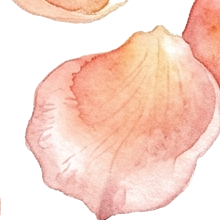
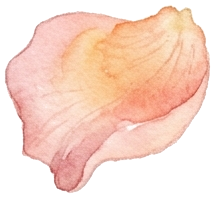
fix: eliminate horizontal scroll and enhance visibility of background mini roses and clean petals

diff --git a/src/app/app.css b/src/app/app.css
@@ -2,18 +2,23 @@
   display: block;
   min-height: 100vh;
   position: relative;
+  overflow-x: clip;
+  max-width: 100%;
   background:
     radial-gradient(circle at 10% 15%, rgba(245, 205, 170, 0.35) 0%, transparent 45%),
     radial-gradient(circle at 90% 80%, rgba(240, 195, 150, 0.3) 0%, transparent 50%),
     radial-gradient(circle at 85% 15%, #fae2cc 0%, #fdf5ec 48%, #f7ebd9 100%);
 }
 
-/* Ambient Romantic Floating Petals Layer */
+/* Ambient Romantic Floating Petals & Mini Roses Layer */
 .romantic-petals-layer {
   position: fixed;
   inset: 0;
+  width: 100vw;
+  max-width: 100%;
+  height: 100vh;
   pointer-events: none;
-  z-index: 5;
+  z-index: 4;
   overflow: hidden;
   opacity: 0;
   transition: opacity 1.2s ease 0.4s;
@@ -23,89 +28,143 @@
   opacity: 1;
 }
 
+/* Mini Rose Blooms in Background */
+.bg-bloom {
+  position: absolute;
+  background-size: contain;
+  background-repeat: no-repeat;
+  background-position: center;
+  pointer-events: none;
+  filter: drop-shadow(0 6px 14px rgba(185, 135, 80, 0.22));
+  will-change: transform;
+  background-image: url('/images/mini_rose_trans.png');
+}
+
+.bloom-1 {
+  top: 18%;
+  left: clamp(8px, 2.8vw, 36px);
+  width: clamp(48px, 9vw, 75px);
+  height: clamp(48px, 9vw, 75px);
+  opacity: 0.95;
+  animation: floatBloom 11s ease-in-out infinite alternate;
+}
+
+.bloom-2 {
+  top: 50%;
+  right: clamp(8px, 2.8vw, 36px);
+  width: clamp(44px, 8.5vw, 70px);
+  height: clamp(44px, 8.5vw, 70px);
+  opacity: 0.92;
+  transform: scaleX(-1);
+  animation: floatBloomReverse 13s ease-in-out infinite alternate 1.5s;
+}
+
+.bloom-3 {
+  top: 82%;
+  left: clamp(10px, 3.2vw, 40px);
+  width: clamp(46px, 8.8vw, 72px);
+  height: clamp(46px, 8.8vw, 72px);
+  opacity: 0.94;
+  animation: floatBloom 14s ease-in-out infinite alternate 2.5s;
+}
+
+/* Individual Floating Rose Petals */
 .petal {
   position: absolute;
   background-size: contain;
   background-repeat: no-repeat;
   background-position: center;
   pointer-events: none;
-  filter: drop-shadow(0 4px 10px rgba(185, 135, 80, 0.16));
-  will-change: transform, opacity;
+  filter: drop-shadow(0 4px 10px rgba(185, 135, 80, 0.2));
+  will-change: transform;
 }
 
 .petal-1 {
-  top: 14%;
-  left: clamp(1%, 3vw, 6%);
-  width: clamp(28px, 5vw, 42px);
-  height: clamp(28px, 5vw, 42px);
+  top: 8%;
+  right: clamp(12px, 3.5vw, 45px);
+  width: clamp(34px, 6vw, 50px);
+  height: clamp(34px, 6vw, 50px);
+  opacity: 0.95;
   background-image: url('/images/petal_1_trans.png');
-  animation: floatPetal 11s ease-in-out infinite alternate;
+  animation: floatPetal 10s ease-in-out infinite alternate;
 }
 
 .petal-2 {
-  top: 36%;
-  right: clamp(1%, 4vw, 7%);
-  width: clamp(34px, 5.5vw, 48px);
-  height: clamp(34px, 5.5vw, 48px);
+  top: 34%;
+  left: clamp(12px, 3.2vw, 40px);
+  width: clamp(32px, 5.5vw, 46px);
+  height: clamp(32px, 5.5vw, 46px);
+  opacity: 0.92;
   background-image: url('/images/petal_2_trans.png');
-  animation: floatPetalReverse 13s ease-in-out infinite alternate 1.5s;
+  animation: floatPetalReverse 12s ease-in-out infinite alternate 1s;
 }
 
 .petal-3 {
-  top: 58%;
-  left: clamp(1%, 2.5vw, 5%);
-  width: clamp(26px, 4.5vw, 38px);
-  height: clamp(26px, 4.5vw, 38px);
+  top: 66%;
+  right: clamp(14px, 3.5vw, 45px);
+  width: clamp(30px, 5vw, 44px);
+  height: clamp(30px, 5vw, 44px);
+  opacity: 0.94;
   background-image: url('/images/petal_3_trans.png');
-  animation: floatPetal 15s ease-in-out infinite alternate 2s;
+  animation: floatPetal 13s ease-in-out infinite alternate 2s;
 }
 
 .petal-4 {
-  top: 76%;
-  right: clamp(2%, 3.5vw, 6%);
-  width: clamp(30px, 4.8vw, 44px);
-  height: clamp(30px, 4.8vw, 44px);
-  background-image: url('/images/petal_1_trans.png');
-  transform: rotate(45deg);
-  animation: floatPetalReverse 12s ease-in-out infinite alternate 3s;
+  top: 92%;
+  right: clamp(15px, 4vw, 48px);
+  width: clamp(32px, 5.5vw, 46px);
+  height: clamp(32px, 5.5vw, 46px);
+  opacity: 0.92;
+  background-image: url('/images/petal_4_trans.png');
+  animation: floatPetalReverse 11s ease-in-out infinite alternate 3s;
 }
 
-.petal-5 {
-  top: 90%;
-  left: clamp(2%, 4vw, 8%);
-  width: clamp(32px, 5.2vw, 46px);
-  height: clamp(32px, 5.2vw, 46px);
-  background-image: url('/images/petal_2_trans.png');
-  animation: floatPetal 14s ease-in-out infinite alternate 4s;
+/* Vertical-only floating animations with rotation (Strictly zero horizontal overflow) */
+@keyframes floatBloom {
+  0% {
+    transform: translateY(0) rotate(0deg) scale(1);
+  }
+  50% {
+    transform: translateY(-16px) rotate(8deg) scale(1.04);
+  }
+  100% {
+    transform: translateY(-30px) rotate(-6deg) scale(0.98);
+  }
+}
+
+@keyframes floatBloomReverse {
+  0% {
+    transform: scaleX(-1) translateY(0) rotate(0deg) scale(1);
+  }
+  50% {
+    transform: scaleX(-1) translateY(18px) rotate(-8deg) scale(1.04);
+  }
+  100% {
+    transform: scaleX(-1) translateY(32px) rotate(6deg) scale(0.98);
+  }
 }
 
 @keyframes floatPetal {
   0% {
     transform: translateY(0) rotate(0deg) scale(1);
-    opacity: 0.75;
   }
   50% {
-    transform: translateY(-20px) translateX(12px) rotate(16deg) scale(1.05);
-    opacity: 0.95;
+    transform: translateY(-18px) rotate(14deg) scale(1.06);
   }
   100% {
-    transform: translateY(-38px) translateX(-8px) rotate(-10deg) scale(0.98);
-    opacity: 0.7;
+    transform: translateY(-34px) rotate(-10deg) scale(0.97);
   }
 }
 
 @keyframes floatPetalReverse {
   0% {
     transform: translateY(0) rotate(0deg) scale(1);
-    opacity: 0.7;
   }
   50% {
-    transform: translateY(22px) translateX(-14px) rotate(-18deg) scale(1.06);
-    opacity: 0.92;
+    transform: translateY(18px) rotate(-14deg) scale(1.06);
   }
   100% {
-    transform: translateY(40px) translateX(10px) rotate(12deg) scale(0.95);
-    opacity: 0.75;
+    transform: translateY(34px) rotate(10deg) scale(0.97);
   }
 }
 
@@ -141,7 +200,9 @@
   position: relative;
   z-index: 10;
   max-width: 760px;
+  width: 100%;
   margin: 0 auto;
+  overflow-x: clip;
   opacity: 0;
   visibility: hidden;
   transition:

diff --git a/src/app/app.html b/src/app/app.html
@@ -1,13 +1,15 @@
 <!-- Intro Door (full-screen overlay — hides when opened) -->
 <app-intro-door (doorOpened)="onDoorOpened()" />
 
-<!-- Floating Romantic Rose Petals Ambient Layer -->
+<!-- Floating Romantic Rose & Petals Ambient Layer -->
 <div class="romantic-petals-layer" aria-hidden="true" [class.visible]="doorOpen()">
+  <span class="bg-bloom bloom-1"></span>
   <span class="petal petal-1"></span>
+  <span class="bg-bloom bloom-2"></span>
   <span class="petal petal-2"></span>
   <span class="petal petal-3"></span>
+  <span class="bg-bloom bloom-3"></span>
   <span class="petal petal-4"></span>
-  <span class="petal petal-5"></span>
 </div>
 
 <!-- Main Wedding Content (visible after door opens) -->

diff --git a/src/app/components/hero/hero.css b/src/app/components/hero/hero.css
@@ -9,12 +9,13 @@
   display: flex;
   justify-content: center;
   align-items: center;
+  overflow-x: clip;
 }
 
 /* Botanical Flowers and Arched Card */
 .botanical-card-wrapper {
   position: relative;
-  width: min(94vw, 640px);
+  width: min(92vw, 640px);
   margin: 0 auto;
   border-radius: 300px 300px 24px 24px / 240px 240px 24px 24px;
   box-shadow:

diff --git a/src/styles.css b/src/styles.css
@@ -54,6 +54,8 @@
 html {
   scroll-behavior: smooth;
   -webkit-text-size-adjust: 100%;
+  overflow-x: hidden;
+  max-width: 100%;
 }
 
 body {
@@ -68,6 +70,8 @@ body {
   -webkit-font-smoothing: antialiased;
   -moz-osx-font-smoothing: grayscale;
   overflow-x: hidden;
+  max-width: 100%;
+  width: 100%;
 }
 
 /* ===== Typography ===== */
